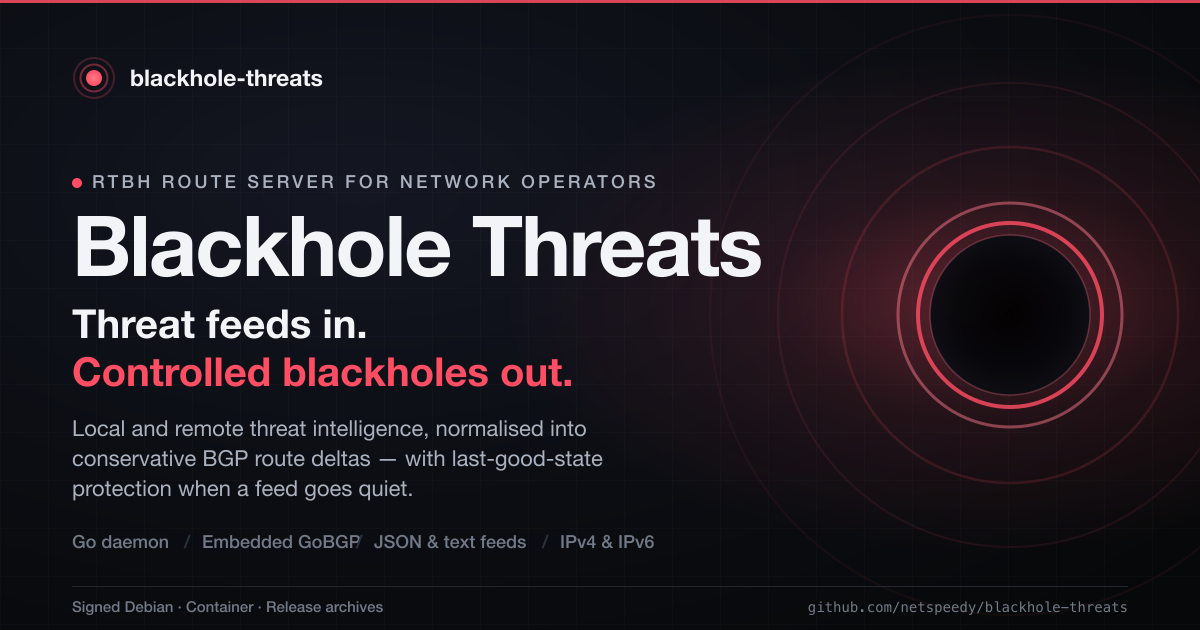
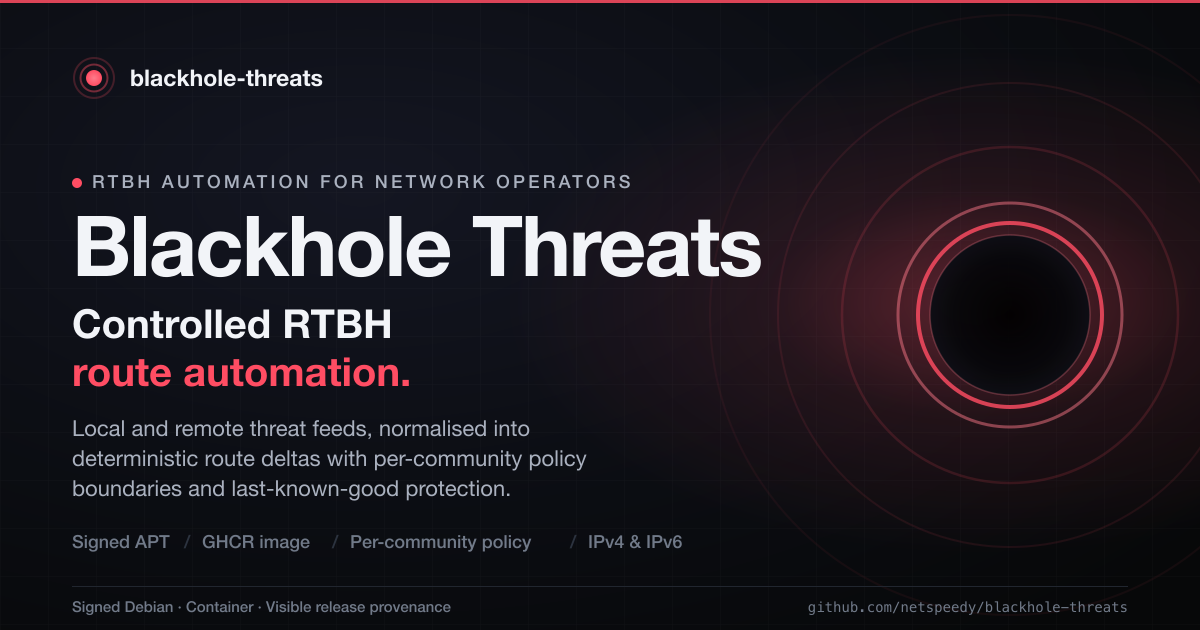
docs: polish website product copy
Refine the landing page hero, install copy, capability labels, fallback release highlights, and social preview card around controlled RTBH route automation, signed delivery, per-community policy boundaries, and visible release provenance.

Validation: npm --prefix .github/assets/website run check; make website-build; git diff --check

diff --git a/.github/assets/website/index.html b/.github/assets/website/index.html
@@ -5,7 +5,7 @@
     <meta name="viewport" content="width=device-width, initial-scale=1.0" />
     <meta
       name="description"
-      content="Blackhole Threats turns local and remote threat feeds into controlled RTBH BGP announcements with signed Debian and container delivery."
+      content="Blackhole Threats turns local and remote threat feeds into controlled RTBH route automation with signed Debian and container delivery."
     />
     <meta name="author" content="netspeedy" />
     <meta name="robots" content="index, follow, max-image-preview:large" />
@@ -17,7 +17,7 @@
     <meta property="og:title" content="Blackhole Threats — Controlled RTBH route automation" />
     <meta
       property="og:description"
-      content="Turns local and remote threat feeds into controlled RTBH BGP route deltas, with signed Debian and container delivery."
+      content="Turns local and remote threat feeds into controlled RTBH route automation, with signed Debian and container delivery."
     />
     <meta property="og:image" content="https://netspeedy.github.io/blackhole-threats/og-image.png?v=1" />
     <meta property="og:image:secure_url" content="https://netspeedy.github.io/blackhole-threats/og-image.png?v=1" />
@@ -32,7 +32,7 @@
     <meta name="twitter:title" content="Blackhole Threats — Controlled RTBH route automation" />
     <meta
       name="twitter:description"
-      content="Turns local and remote threat feeds into controlled RTBH BGP route deltas, with signed Debian and container delivery."
+      content="Turns local and remote threat feeds into controlled RTBH route automation, with signed Debian and container delivery."
     />
     <meta name="twitter:url" content="https://netspeedy.github.io/blackhole-threats/" />
     <meta name="twitter:image" content="https://netspeedy.github.io/blackhole-threats/og-image.png?v=1" />
@@ -74,12 +74,12 @@
     <main>
       <section class="hero" aria-labelledby="hero-title">
         <div class="hero-copy">
-          <p class="eyebrow"><span class="eyebrow-dot"></span>RTBH route server for network operators</p>
-          <h1 id="hero-title">Threat feeds in.<br /><span class="accent">Controlled blackholes</span> out.</h1>
+          <p class="eyebrow"><span class="eyebrow-dot"></span>RTBH automation for network operators</p>
+          <h1 id="hero-title">Controlled RTBH<br /><span class="accent">route automation.</span></h1>
           <p class="hero-lead">
-            blackhole-threats reads local and remote threat intelligence, normalises IPv4 and IPv6
-            prefixes, and announces conservative BGP route deltas &mdash; with last-good-state
-            protection when a feed goes quiet.
+            blackhole-threats turns local and remote threat feeds into IPv4 and IPv6
+            blackhole announcements, with deterministic route deltas, per-community policy
+            boundaries, and last-known-good protection when a source fails.
           </p>
           <div class="hero-actions" aria-label="Primary actions">
             <a class="btn btn-primary" href="#install" data-install-tab="apt">
@@ -89,9 +89,9 @@
             <a class="btn btn-ghost" href="https://github.com/netspeedy/blackhole-threats#readme" id="hero-docs-link">Read the operator guide</a>
           </div>
           <ul class="hero-facts" aria-label="Runtime capabilities">
-            <li>Go daemon</li>
-            <li>Embedded GoBGP</li>
-            <li>JSON &amp; text feeds</li>
+            <li>Signed APT</li>
+            <li>GHCR image</li>
+            <li>Per-community policy</li>
             <li>IPv4 / IPv6</li>
           </ul>
         </div>
@@ -118,7 +118,7 @@
       <section class="release-band wrapper" aria-labelledby="release-heading">
         <div class="section-head">
           <p class="eyebrow">Current release</p>
-          <h2 id="release-heading">Operator-grade artifacts, signed and reproducible.</h2>
+          <h2 id="release-heading">Signed releases with visible provenance.</h2>
         </div>
         <div class="release-grid">
           <div class="release-card release-card--lead">
@@ -156,28 +156,28 @@
             <span class="cap-icon" aria-hidden="true">
               <svg viewBox="0 0 24 24" fill="none"><path d="M4 14a4 4 0 010-8 5 5 0 019.6-1.5A4.5 4.5 0 0118 14H4z" stroke="currentColor" stroke-width="1.5" stroke-linejoin="round"/><path d="M12 11v6m0 0l-2.2-2.2M12 17l2.2-2.2" stroke="currentColor" stroke-width="1.5" stroke-linecap="round" stroke-linejoin="round"/></svg>
             </span>
-            <h3>Ingest mixed feeds</h3>
+            <h3>Normalise feed input</h3>
             <p>Read local files, HTTP, and HTTPS sources in plain text, JSON arrays, JSONL, or NDJSON.</p>
           </article>
           <article class="capability-card">
             <span class="cap-icon" aria-hidden="true">
               <svg viewBox="0 0 24 24" fill="none"><path d="M4 7h7M4 12h5M4 17h5" stroke="currentColor" stroke-width="1.5" stroke-linecap="round"/><path d="M15 5l5 5-5 5M20 10h-7" stroke="currentColor" stroke-width="1.5" stroke-linecap="round" stroke-linejoin="round"/><path d="M15 14l5 5-5 5" stroke="currentColor" stroke-width="1.5" stroke-linecap="round" stroke-linejoin="round" stroke-opacity="0"/></svg>
             </span>
-            <h3>Publish route deltas</h3>
+            <h3>Publish only route deltas</h3>
             <p>Build the desired table, compare to active state, then withdraw stale routes and announce changes only.</p>
           </article>
           <article class="capability-card">
             <span class="cap-icon" aria-hidden="true">
               <svg viewBox="0 0 24 24" fill="none"><path d="M3 12l4-4h6l8 8-4 4-8-8v-0z M9 8l-2 2" stroke="currentColor" stroke-width="1.5" stroke-linejoin="round"/><circle cx="15" cy="14" r="1.4" fill="currentColor"/></svg>
             </span>
-            <h3>Respect communities</h3>
+            <h3>Keep policy boundaries explicit</h3>
             <p>Group feeds by BGP community so policy boundaries stay explicit and auditable on the wire.</p>
           </article>
           <article class="capability-card">
             <span class="cap-icon" aria-hidden="true">
               <svg viewBox="0 0 24 24" fill="none"><path d="M12 3l7 3v5c0 4.5-3 8-7 10-4-2-7-5.5-7-10V6l7-3z" stroke="currentColor" stroke-width="1.5" stroke-linejoin="round"/><path d="M9 12l2 2 4-4" stroke="currentColor" stroke-width="1.6" stroke-linecap="round" stroke-linejoin="round"/></svg>
             </span>
-            <h3>Carry forward safely</h3>
+            <h3>Preserve last-known-good routes</h3>
             <p>When a community refresh fails, preserve its last known-good routes and retry on the next cycle.</p>
           </article>
         </div>
@@ -187,9 +187,9 @@
         <div class="section-head section-head--split">
           <div>
             <p class="eyebrow">Install</p>
-            <h2 id="install-heading">Pick the path that matches the host.</h2>
+            <h2 id="install-heading">Choose the delivery path for your environment.</h2>
           </div>
-          <p class="section-aside">Signed APT is the recommended path for long-running Debian-family hosts. The container image is the direct copy-paste path for container runtimes.</p>
+          <p class="section-aside">Signed APT is the recommended path for long-running Debian-family hosts. Use GHCR for container runtimes with configuration mounted under <code>/config</code>.</p>
         </div>
 
         <div class="install-tabs">
@@ -289,7 +289,7 @@
           </svg>
           <div>
             <strong>Blackhole Threats</strong>
-            <p>RTBH route automation with signed packages, deterministic route deltas, and first-party release artifacts.</p>
+            <p>Controlled RTBH route automation with signed packages, deterministic route deltas, and visible release provenance.</p>
           </div>
         </div>
         <nav class="footer-links" aria-label="Footer links">

diff --git a/.github/assets/website/main.js b/.github/assets/website/main.js
@@ -1,9 +1,9 @@
 import './style.css';
 
 const fallbackHighlights = [
-  'Fetch threat feeds concurrently and normalize IP prefixes',
-  'Summarise routes by BGP community before publication',
-  'Preserve last good community state when upstream feeds fail',
+  'Normalise local and remote threat feeds into IP prefixes',
+  'Publish deterministic route deltas by BGP community',
+  'Preserve last-known-good routes when upstream feeds fail',
 ];
 
 const defaultSiteURL = process.env.PUBLIC_SITE_URL.replace(/\/?$/, '/');